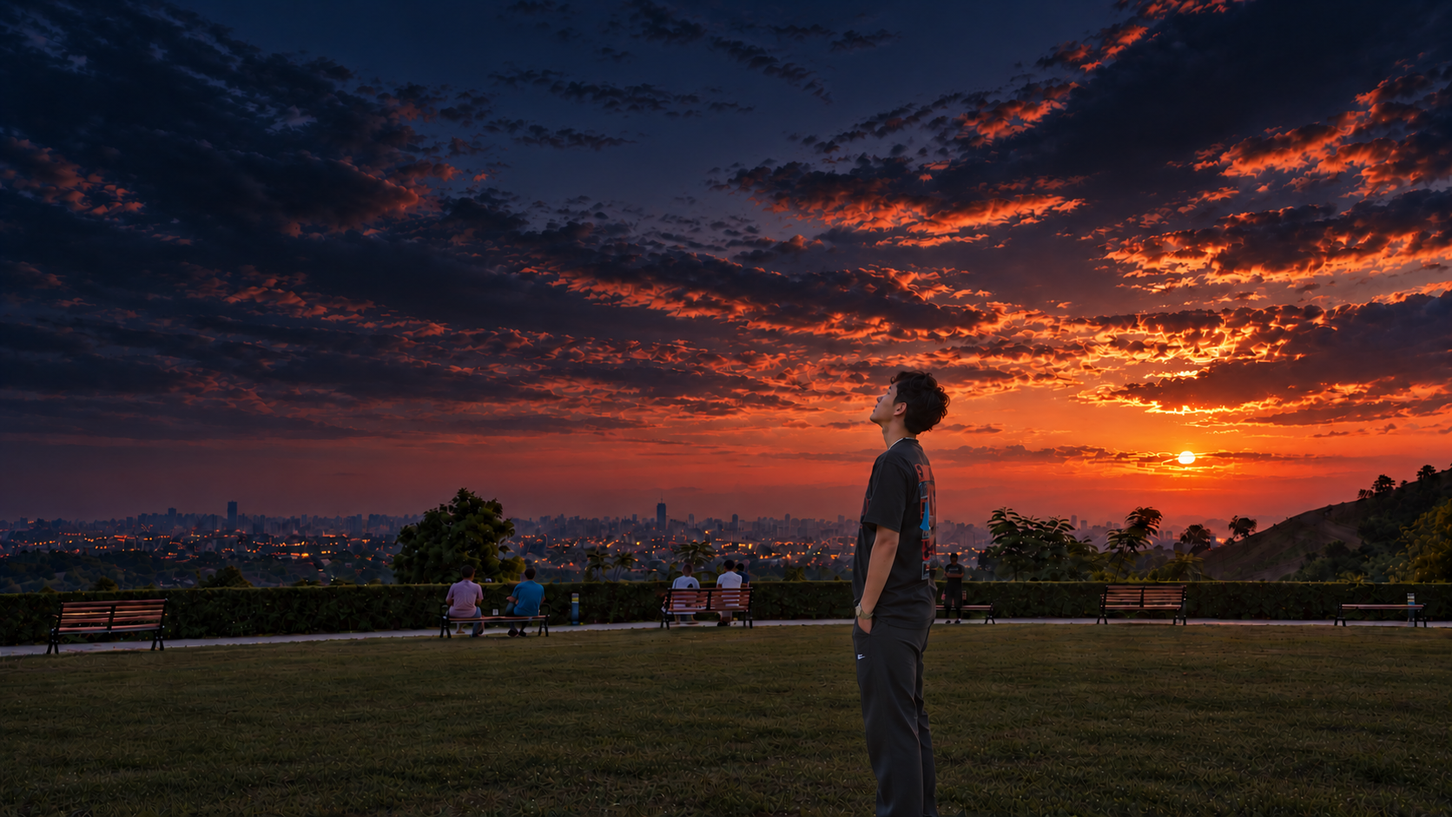
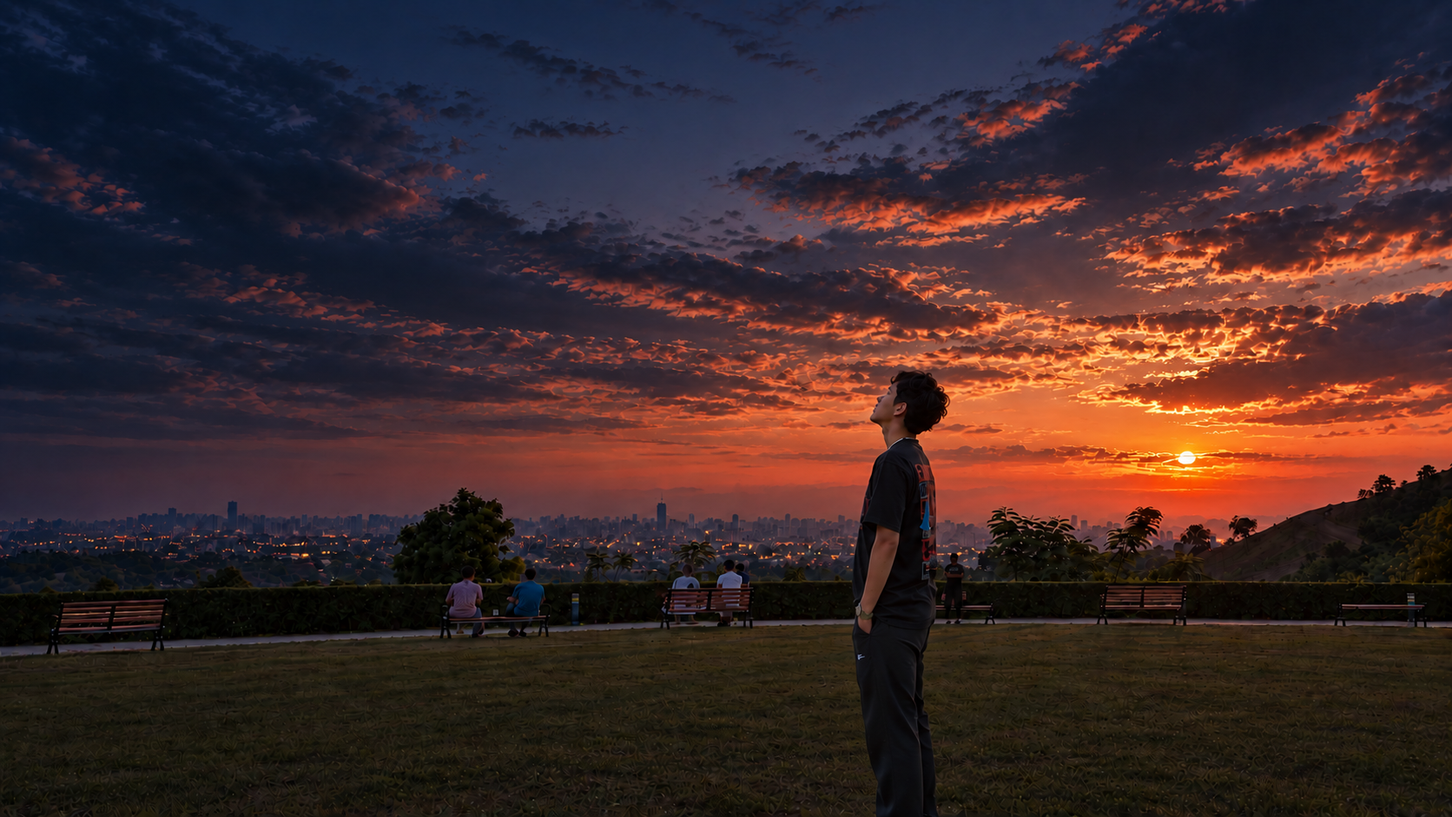
feat: integrate supplied sunrise and sunset hero photos

diff --git a/src/styles.css b/src/styles.css
@@ -56,33 +56,6 @@
   --blockquote-rule: #becbd7;
   --hero-foreground: #f5f2ed;
   --hero-secondary: #d5d7db;
-  --hero-shade:
-    radial-gradient(
-      ellipse 25% 27% at 52% 14%,
-      rgba(72, 104, 160, 0.45),
-      transparent
-    ),
-    radial-gradient(
-      ellipse 25% 35% at 23% 16%,
-      rgba(0, 15, 29, 0.7),
-      transparent
-    ),
-    linear-gradient(
-      90deg,
-      rgba(9, 17, 23, 0.77) 0%,
-      rgba(11, 18, 26, 0.56) 34%,
-      rgba(11, 18, 26, 0.12) 70%,
-      rgba(11, 18, 26, 0.03)
-    ),
-    linear-gradient(
-      0deg,
-      rgba(11, 17, 22, 0.45),
-      transparent 35%,
-      rgba(11, 17, 22, 0.12)
-    );
-  --hero-shade-mobile:
-    linear-gradient(90deg, #0b1624ca, #0b162462 70%, #0b16242a),
-    linear-gradient(0deg, #07101b88, transparent 40%);
   --contact-shade:
     linear-gradient(
       90deg,
@@ -150,21 +123,6 @@ html[data-theme="light"] {
   --blockquote-rule: #687685;
   --hero-foreground: #17202a;
   --hero-secondary: #303b47;
-  --hero-shade:
-    radial-gradient(
-      ellipse 30% 35% at 25% 16%,
-      rgba(117, 208, 255, 0.25),
-      transparent
-    ),
-    linear-gradient(
-      90deg,
-      rgba(245, 243, 239, 0.18) 0%,
-      rgba(245, 243, 239, 0.12) 35%,
-      rgba(245, 243, 239, 0.025) 72%,
-      rgba(245, 243, 239, 0)
-    ),
-    linear-gradient(0deg, rgba(111, 65, 10, 0.45), transparent 35%);
-  --hero-shade-mobile: var(--hero-shade);
   --contact-shade:
     linear-gradient(
       90deg,
@@ -529,7 +487,6 @@ p {
   background: #2a3540;
 }
 .hero-photo,
-.hero-person,
 .contact-photo {
   position: absolute;
   width: 100%;
@@ -544,29 +501,16 @@ p {
   object-position: 68% 45%;
   height: 112%;
   top: -6%;
+  z-index: 0;
   opacity: 0;
   transition: opacity 0.75s var(--ease);
 }
 .hero-photo.is-active {
   opacity: 1;
 }
-.hero-person {
-  z-index: -1;
-  width: 70vw;
-  height: auto;
-  top: calc(44.6% - 11.4vw);
-  bottom: auto;
-  left: calc(62.5% - 43.75vw);
-  object-position: center;
-  filter: brightness(0.9);
-}
-.hero-shade {
-  position: absolute;
-  inset: 0;
-  z-index: -2;
-  background: var(--hero-shade);
-}
 .hero-content {
+  position: relative;
+  z-index: 1;
   padding-top: 50px;
   padding-bottom: 45px;
 }
@@ -600,6 +544,7 @@ p {
 }
 .hero-bottom {
   position: absolute;
+  z-index: 1;
   bottom: 30px;
   left: 0;
   right: 0;
@@ -1842,13 +1787,6 @@ html[data-theme="light"] .hero-bottom .scroll-cue {
   .hero-photo {
     object-position: 60% 50%;
   }
-  .hero-person {
-    width: 117.5vw;
-    height: auto;
-    top: auto;
-    bottom: -9.4vw;
-    left: -6.4vw;
-  }
   .project-grid {
     gap: 14px;
   }
@@ -1959,7 +1897,7 @@ html[data-theme="light"] .hero-bottom .scroll-cue {
   }
   .hero-description {
     font-size: 22px;
-    max-width: 300px;
+    max-width: min(250px, calc(100% - 90px));
   }
   .hero .button {
     min-width: 0;
@@ -1971,19 +1909,9 @@ html[data-theme="light"] .hero-bottom .scroll-cue {
     gap: 12px;
   }
   .hero-photo {
-    object-position: 64% center;
+    object-position: 52% center;
     top: 0;
     height: 100%;
-  }
-  .hero-person {
-    width: 195vw;
-    height: auto;
-    top: auto;
-    bottom: -18vw;
-    left: -55.7vw;
-  }
-  .hero-shade {
-    background: var(--hero-shade-mobile);
   }
   .hero-bottom {
     bottom: 23px;
@@ -2485,17 +2413,6 @@ html[data-theme="light"] .hero-bottom .scroll-cue {
     font-size: 11px;
   }
 }
-@media (max-width: 530px) {
-  .hero-person {
-    /* Keep the face clear of the CTA row on narrow screens, then join the usual bottom crop. */
-    top: calc(100% - 91.8vw);
-    top: max(
-      calc(100% - 91.8vw),
-      calc(min(526px, calc(2044px - 323vw)) - 31.7vw)
-    );
-    bottom: auto;
-  }
-}
 @media (max-width: 360px) {
   :root {
     --gutter: 20px;
@@ -2573,7 +2490,6 @@ html[data-theme="light"] .hero-bottom .scroll-cue {
     transition: none !important;
   }
   .hero-photo,
-  .hero-person,
   .contact-photo {
     transform: none !important;
   }

diff --git a/src/App.tsx b/src/App.tsx
@@ -452,7 +452,7 @@ export default function App() {
         <section className="hero" id="home" aria-labelledby="hero-title">
           <img
             className={`hero-photo ${theme === "dark" ? "is-active" : ""}`}
-            src="/images/hero-sunset-background.webp"
+            src="/images/hero-full-sunset-v2.png"
             alt=""
             fetchPriority="high"
             aria-hidden="true"
@@ -461,21 +461,12 @@ export default function App() {
           />
           <img
             className={`hero-photo ${theme === "light" ? "is-active" : ""}`}
-            src="/images/hero-sunrise-background.webp"
+            src="/images/hero-full-sunrise-v2.png"
             alt=""
             aria-hidden="true"
             width="1672"
             height="941"
           />
-          <img
-            className="hero-person"
-            src="/images/hero-person-cutout.png"
-            alt=""
-            aria-hidden="true"
-            width="1672"
-            height="941"
-          />
-          <div className="hero-shade" />
           <div className="wrap hero-content">
             <div className="hero-reveal">
               <Eyebrow>Hello, I’m</Eyebrow>

diff --git a/src/usePortfolioMotion.ts b/src/usePortfolioMotion.ts
@@ -96,7 +96,7 @@ export function usePortfolioMotion(
       media.add(
         "(min-width: 768px) and (hover: hover) and (pointer: fine)",
         () => {
-          gsap.to(".hero-photo, .hero-person", {
+          gsap.to(".hero-photo", {
             yPercent: 12,
             ease: "none",
             scrollTrigger: {

diff --git a/docs/hero-reference-analysis.md b/docs/hero-reference-analysis.md
@@ -1,29 +1,34 @@
-# Hero reference analysis
+# October 2 hero photo fit against the video
 
-Source: the supplied screen recording, sampled near 1 s (sunrise) and 4 s (sunset), and its 1280 × 720 comparison frames. This records the visual target for the October 1 refinement; the portfolio copy remains based on the supplied résumé.
+## Visual target
 
-| Feature   | Video reference                                                                                                                  | Previous v6 render                                                   | Direction                                                                                                         |
-| --------- | -------------------------------------------------------------------------------------------------------------------------------- | -------------------------------------------------------------------- | ----------------------------------------------------------------------------------------------------------------- |
-| Hero edge | About y=500 in both modes                                                                                                        | y=504                                                                | Keep the existing hero height.                                                                                    |
-| Person    | Head about x=775–839, top y=225; body about 75–82 px wide; shoes cropped at hero edge                                            | Head near x=782–820, top y=228; body about 59 px wide; shoes visible | Scale the one transparent portrait around the head to about 70vw at 1280px, and let the hero clip its lower legs. |
-| Dark sky  | Near-black navy/indigo above a red/coral sunset; sampled top-left sky `#08121f`, upper-right sky `#161a2e`, coral band `#93453e` | Brown/gray clouds, turquoise patch and olive-gold horizon            | Replace the sunset plate with a deeper dusk edit, keeping the park scene and foreground portrait separate.        |
-| Light sky | Powder-blue upper sky with cream cloud edges and a pale peach-yellow horizon; sampled sky `#aec7e2` and `#b4d1ed`                | Orange-gold across most of the sky                                   | Replace the sunrise plate with a cooler dawn edit.                                                                |
+The screen recording remains the reference for framing and time-of-day contrast. Its page hero occupies approximately x=143–1137 and y=64–453 in a 1280 × 720 recording, or about 994 × 389. At a 1280 × 720 Playwright viewport, the v6 hero measures 1280 × 504, preserving nearly the same 2.54:1 frame. The supplied photographs are 1672 × 941 (1.78:1), so the wide hero necessarily crops vertically.
 
-The reference plates and previous generated plates have different cloud shapes, so a CSS color filter alone cannot make them pixel-identical. Preserve one portrait asset above the background shade, with the same crop and exposure in both themes; only the background plates crossfade.
+The recording shows a near-night navy/indigo sky with a coral sunset in dark mode and a cool, bright blue dawn with restrained peach light in the horizon in light mode. The two October 2 photos follow those distinct conditions while keeping the person near the same right-of-center position, looking upward, with feet below the hero boundary. The new pair is brighter and clearer than the video frame in places, which is inherent to the supplied source files and has not been graded with CSS.
 
-## Result
+## Fitted result
 
-The final hero keeps the same 504px desktop boundary. At a 1280px viewport the portrait image is 896px wide, and its alpha bounds place the head near y=225 and the body around x=754–834. The shoes fall below the clipped hero. The portrait source, geometry, and `brightness(0.9)` remain identical when switching themes. The sunrise and sunset plates are separate edits of the Antipolo scene; the light-mode ground receives a warm shade, while the top-left sky stays cool blue.
+| Check      | Video reference                                  | Playwright render, 1280 × 720                              | Result                                                                            |
+| ---------- | ------------------------------------------------ | ---------------------------------------------------------- | --------------------------------------------------------------------------------- |
+| Hero frame | About 994 × 389 inside the recording             | 1280 × 504                                                 | Matching wide composition; page layout unchanged                                  |
+| Person     | Head near x=775–839, y≈225 in the captured frame | Head around x=790–835, y≈228                               | Near the same position and scale; lower legs/feet stay clipped                    |
+| Dark sky   | Deep navy/indigo above the coral sunset          | Supplied dark photo; no shade, filter, or color overlay    | Deep dusk remains, though some clouds are brighter and more orange than the video |
+| Light sky  | Bright powder blue with pale warm horizon        | Supplied light photo; no shade, filter, or color overlay   | Cool dawn remains; cloud placement and local warmth differ from the video         |
+| Theme swap | Person appears fixed as the environment changes  | Two same-sized complete photos crossfade in one shared box | Same figure pose and placement; the source lighting differs                       |
 
-Representative 11×11 median samples from the reference and final Playwright screenshots, using the same normalized viewport location:
+At desktop, each `<img>` measures 1280 × 564.47 at y=-30.23 with `object-fit: cover` and `object-position: 68% 45%`. The visible source slice is approximately y=131–790, matching the video’s head height and clipping the feet below the 504px hero boundary. Both theme layers report the same box and have no CSS filter. The old cutout portrait and hero shade are absent.
 
-| Mode and location                | Reference | Final render |
-| -------------------------------- | --------- | ------------ |
-| Dark upper-left sky (300, 80)    | `#08121f` | `#081120`    |
-| Dark upper-middle sky (650, 80)  | `#2e3c5b` | `#263758`    |
-| Dark coral band (1000, 250)      | `#93453e` | `#983e2c`    |
-| Light upper-left sky (300, 80)   | `#aec7e2` | `#b1c7df`    |
-| Light upper-middle sky (650, 80) | `#b4d1ed` | `#a9caec`    |
-| Light grass (500, 460)           | `#927c40` | `#91834a`    |
+At 768 × 900, the photo uses `object-position: 60% 50%` and the figure stays clear of the wrapped title and body copy. At mobile sizes, it uses `object-position: 52% 50%`; the paragraph narrows to leave the embedded figure's face clear. Playwright checks at 768 × 900, 390 × 844, and 320 × 780 confirmed that the photo is loaded and `document.documentElement.scrollWidth` equals the viewport width. The scene remains intentionally cropped more tightly on phones than in the desktop video reference.
 
-The source screenshot contains UI and a different cloud arrangement, so the resulting clean photographic plates still differ in cloud edges, sun glow, and some distant park visitors. The important mode contrast, subject identity/crop, and light/dark placement now follow the video without baking its UI into the site.
+## Design-engineering pipeline decisions
+
+1. **Foundations:** Preserve the current portfolio architecture, copy, page flow, theme control, and accessible/reduced-motion behavior.
+2. **Aesthetic:** Use the supplied video to evaluate sunrise/sunset contrast and the two new photos as the final image authority.
+3. **Identity:** Keep both user files byte-for-byte. They are complete photos containing the same figure and pose.
+4. **Motion:** Crossfade the two full images and move them together for desktop parallax. Reduced-motion preferences continue to suppress movement and transitions.
+5. **Implementation:** Replace the two background plates plus separate portrait with two full-photo layers; remove the hero color overlay and retain one responsive crop per breakpoint.
+6. **Audit:** Compare dark and light browser renders with the reference, check desktop/mobile composition and overflow, and verify both sources load without filters.
+
+The people are part of the supplied photos, so their lighting is baked in; their pixels are not identical between themes. Making the person pixel-identical would require altering the photos or reintroducing a separate portrait layer, neither of which is part of this integration. Cloud shapes, exact sun glow, and small park details also differ from the recording because the user-supplied photos are now locked as the artwork.
+
+Source frames: `assets/hero-pair/reference/video-light.png` and `assets/hero-pair/reference/video-dark.png`. Exact image hashes and current browser measurements are in `assets/hero-pair/measurements.json`.

diff --git a/assets/hero-pair/README.md b/assets/hero-pair/README.md
@@ -1,34 +1,33 @@
-# Full sunrise/sunset photo pair
+# Hero photo pair provenance and fit
 
-Created October 1, 2026, with built-in image_gen. This is an image-only trial in portfolio v6; the site still uses its existing backgrounds and shared portrait.
+## Current application pair
 
-## Selected files
+The October 2, 2026 photos supplied by the user are the selected hero artwork. Both are complete, opaque 1672 × 941 PNGs with the person embedded in the scene. The light source was already byte-identical to the file in `public/images`; the dark source replaced the October 1 generated candidate at the same filename. Neither source photo was edited, regenerated, filtered, or resized.
 
-- `../../public/images/hero-full-sunrise-v2.png`
-- `../../public/images/hero-full-sunset-v2.png`
+| Theme           | Supplied source                                                          | Application asset                        | SHA-256                                                            |
+| --------------- | ------------------------------------------------------------------------ | ---------------------------------------- | ------------------------------------------------------------------ |
[2 lines of base64/hex data omitted]
 
-Both opaque PNGs are native **1672 × 941** pixels and contain the foreground person. They were not upscaled. The tool returned this size despite the initial 3840 × 2160 prompt. The dark photograph was edited from the selected complete light scene.
+The figure shares the same pose and position across the pair. Its lighting is part of each photo, so the figure's brightness and skin tones differ between themes. Keeping the supplied photos untouched preserves their detail and framing.
 
-## Reference and crop
+## Reference and responsive fit
 
-The supplied original 4032 × 3024 photograph was the identity/detail reference. The video is the background target, sampled at 1 s and 4 s. Saved frames are in `reference/`; their hero crop is approximately x=143, y=64, width=994, height=389. The supplied screenshots show the corresponding 1672 × 654 hero.
+The video reference is `D:/Games/VALO CLIPS/Outplayed/Screen recorder/Screen recorder_10-01-2026_12-26-13-106/Screen recorder_10-01-2026_12-26-45-572.mp4`. The comparison frames remain in `reference/`; the captured hero is about 994 × 389 within the 1280 × 720 video frame. At a 1280 × 720 browser viewport, the portfolio hero is 1280 × 504, an almost identical aspect ratio. Both source photos fill the same `object-fit: cover` box at the same position. The crop displays approximately source rows 131–790, keeping the head near the video's y≈225 placement and clipping the feet below the hero edge.
 
-Playwright confirmed a 1280 × 504 desktop hero with a 1280 × 564.48 background element at y=-30.24, cover fit and 68% 45% object position. The displayed source slice is approximately y=131–790. The person's head begins near native y=428, displaying at y≈227; center is near 62–63% of width. Shoes stay beyond the visible crop.
+At tablet width, the photos use a 60% horizontal crop. On phones, they use 52% to preserve the face at the right of the copy; the paragraph narrows with the viewport to keep its last line clear of the embedded figure. Playwright at 768px, 390px, and 320px confirmed that the photos load and the page has no horizontal overflow.
 
-## Verification and limits
+Only the two complete photographs are in the hero. The theme transition remains a 0.75-second opacity crossfade; desktop parallax moves both photos together. No overlay, CSS filter, independent portrait, or extra image layer changes the supplied artwork. Reduced-motion handling remains active.
 
-Both PNGs decoded and loaded in Playwright with equal dimensions. `reference/pair-comparison.png` compares the actual desktop crop with the video. `reference/portrait-alignment.png` shows the person at 200% and in a 50% blend: pose and silhouette align without a conspicuous doubled outline at desktop size.
+## Six-stage design-engineering record
 
-Light follows pale blue/cream morning colors; dark follows navy/indigo and coral/orange sunset with city lights. No green upper-sky cast was observed.
+1. **Foundations:** Retain the existing React/Vite portfolio structure, hero content, section order, and responsive/accessibility requirements.
+2. **Aesthetic:** Match the video’s cool bright dawn and deep navy/coral dusk using the supplied pair as the visual authority.
+3. **Identity:** Lock the October 2 photos as final artwork; do not generate or alter either image.
+4. **Motion:** Keep the existing crossfade and parallax, with both photo layers sharing one motion target and respecting reduced motion.
+5. **Implementation:** Use two decorative image elements with one shared crop; remove the separate portrait and photo shade.
+6. **Audit:** Compare both themes in Playwright at desktop and phone sizes, check image geometry, controls, reduced-motion behavior, runtime output, and overflow.
 
-**This is a matched concept pair, not an exact reference copy or a pixel-identical person.** Dark skin remains slightly dimmer. Selected native interior-patch mean RGB differences are 3.8 for hair, 17.2 for face, 3.3 for shirt, 11.9 for arm and 2.6 for trousers on a 0–255 scale. These patches measure exposure/detail consistency, not identity. Hair, face, necklace and clothing details are generated rather than untouched pixels from the original.
+## Earlier October 1 image-generation trial
 
-Cloud shapes, sun placement, benches and hedge height differ from the reference. Grass microtexture remains visibly synthetic at full resolution. `measurements.json` records comparison data; samples landing on different scene objects cannot establish a literal color match.
-
-The final exposure-only attempt over-brightened skin and returned 1671 × 941. It was rejected; the earlier equal-sized pair with better alignment was retained.
-
-## Later integration
-
-Application source, existing artwork and resume PDF were untouched. Later integration requires replacing the three-image hero with two photographs. Mobile currently positions the portrait independently, so the future image crop rules require responsive adjustment and testing. This generation trial does not verify that future implementation.
-
-`prompts.json` records all prompts and selected paths. Source candidates remain in the tool's generated-images folder. Only the selected pair was added as new public hero assets. Reverting this asset-only commit preserves the previous hero implementation.
+This folder began as an image-generation experiment. Its prompts and comparison assets document that earlier work only; they do not describe the current application files. `prompts.json` preserves the old prompts and marks their selected files as historical. In `measurements.json`, `currentApplicationPair` contains the October 2 source hashes and current browser measurements; properties prefixed `october1` retain the old color and person-patch results. The October 1 portrait-alignment image and color samples must not be read as measurements of the new pair.

diff --git a/docs/verification.md b/docs/verification.md
@@ -1,6 +1,6 @@
 # Portfolio v6 · verification record
 
-Environment: local Vite development server, Playwright 1.63 Chromium, October 1, 2026.
+Previous full-site baseline: local Vite development server, Playwright 1.63 Chromium, October 1, 2026. Hero integration rechecked on October 2, 2026; unrelated full-site checks below were not rerun.
 
 ## Theme and résumé verification
 
@@ -12,9 +12,9 @@ Environment: local Vite development server, Playwright 1.63 Chromium, October 1,
 ## Desktop
 
 - The home, projects, about, process, learning journey, and contact sections all render with their supplied title and hierarchy.
-- Separate sunrise and sunset hero plates and one transparent foreground portrait load as local assets. Switching themes crossfades the background plates while keeping the portrait's source, position, size, and filter unchanged. The generated dusk contact photo is lazy loaded.
-- At 1280×720, Playwright measured the hero at 504px high. The enlarged foreground portrait starts near y=225 and is clipped at the hero edge, so its shoes are hidden in both themes. The projects section begins directly below the hero.
-- The desktop hero follows the reference's subject position and crop, blue sunrise versus navy/coral sunset, dark left-hand title treatment, editorial serif type, quiet header, and paired actions. The cloud edges and distant park visitors still differ from the video.
+- Two complete supplied sunrise/sunset photos load as the only hero image layers. Switching themes crossfades those photos; the figure is included in both. The generated dusk contact photo is lazy loaded.
+- At 1280×720, Playwright measured the hero at 504px high and each photo at 1280×564.47, y=-30.23. Their shared crop places the head near y=228 and clips the feet below the hero. The projects section begins directly below the hero.
+- The desktop hero follows the reference's subject position and crop, bright dawn versus navy/coral sunset, dark left-hand title treatment, editorial serif type, quiet header, and paired actions. The supplied photos have no shade or filter.
 - The three project workflow illustrations and case study cards fit the viewport without horizontal overflow.
 - The first and subsequent project dialogs open and show their matching title and details; dialog state locks body scroll. Escape closes the native dialog and restores focus to the CASH-G launch button.
 - Project hashes and the button links update the intended section. The project overview case study works without an external hosted demo.
@@ -26,8 +26,8 @@ Environment: local Vite development server, Playwright 1.63 Chromium, October 1,
 - Reduced motion toggles from the footer and changes `document.documentElement.dataset.motion` while preserving readable content and navigation. Playwright emulation of the system reduced-motion preference confirmed that hero photo transitions are disabled.
 - All three illustrations and project details load. Escape closes the native case-study dialog, unlocks body scrolling and restores focus to the originating project card. The contact anchor copy fits at 390px, and the generated dusk image loads.
 - The email copy control changes to its success status on click. The current page generated no browser console errors after a fresh reload.
-- Playwright verified both theme images load, the background crossfade overlaps during the transition, the portrait bounds do not move between themes, and the selected theme persists after reload.
-- The TypeScript/Vite production build and `git diff --check` pass. Changed files pass Prettier. The repository-wide format check still reports warnings in untouched `src/usePortfolioMotion.ts`, `DESIGN.md`, and `index.html`.
+- Playwright verified both theme images load, their CSS boxes stay equal across themes, and the selected theme persists after reload. The previous separate-portrait comparison below records the October 1 implementation only.
+- The TypeScript/Vite production build and `git diff --check` pass. Changed files pass Prettier. The repository-wide format check still flags the unchanged `index.html`.
 
 ## Résumé update
 
@@ -37,9 +37,19 @@ Environment: local Vite development server, Playwright 1.63 Chromium, October 1,
 
 The existing social profiles, contact details, project descriptions, and dated project checks are taken from `src/data/portfolio.json`; the checks have not been repeated as part of the site build. The final contact photograph also loads as a local asset. No remote services, analytics, or deployment were added.
 
-## October 1 video-reference refinement
+## October 1 video-reference refinement (previous implementation)
 
 - Compared the supplied video near its light and dark frames with the live hero, including person bounds, hero edge, sky/grass samples, and sun position. The measurements and remaining visual differences are in `docs/hero-reference-analysis.md`.
 - Refined the separate sunrise and sunset plates from the supplied scene. The dark plate has deep navy clouds and a low coral sunset; the light plate has cool blue sky, pale warm horizon, and less green-looking grass. The live portrait remains a single unchanged image node above the shade in both themes.
 - Playwright checked the crop at 1280px, 768px, 390px, and 320px, plus the 400/401px and 530/531px responsive handoffs. Shoes stay clipped and there is no horizontal overflow. On narrow phones, the head remains below the action buttons.
 - Playwright confirmed both images loaded, theme selection persisted after reload, the animated crossfade completed when motion was enabled, the reduced-motion state showed no transition, and the page reported no console errors.
+
+The October 1 composition used separate background plates and a portrait cutout. It was superseded by the user's complete photos on October 2; these checks do not describe the current image layers.
+
+## October 2 supplied-photo integration
+
+- Both October 2 PNGs are used byte-for-byte at 1672×941. Playwright at 1280×720 confirmed two loaded photo layers, one active per theme, equal 1280×564.47 boxes at y=-30.23, `object-fit: cover`, and `filter: none`. The hero has no portrait node or shade overlay.
+- Playwright at 768×900, 390×844, and 320×780 confirmed the responsive crops, successful photo load, and no horizontal overflow. The figure remains near the video reference position at desktop, with feet below the hero edge.
+- Theme switching keeps the hero and both image boxes fixed while the photos crossfade. The selected theme persists in local storage. Figure lighting differs because it is part of each source image.
+- `npm run build` passes TypeScript and production bundling. Prettier passes on every changed file, and `git diff --check` passes. The repository-wide Prettier check still flags only the untouched `index.html`.
+- Playwright observed the crossfade at 160ms with photo opacities 0.237/0.763 and equal image boxes; reduced-motion emulation reported no transition. Theme selection persisted through reload, both PNGs decoded, and the browser reported zero errors and warnings.

diff --git a/DESIGN.md b/DESIGN.md
@@ -21,7 +21,7 @@ Maximum content width 1440px with fluid 5.4vw gutters. Display sizes use clamp; 
 
 ## Stage 3: visual identity and assets
 
-Reuse the four supplied comps as the already-approved individual section designs. Generate clean photographic assets from the hero and contact references through the built-in imagegen tool. Keep all final assets in public/images. A monogram, sunset photography, ivory serif headings and blue line icons form the identity. Do not invent a new brand moodboard.
+Reuse the four supplied comps as the already-approved individual section designs. For the hero, use the two complete October 2 photos supplied by the user as-is; do not generate or alter them. Keep all final assets in public/images. A monogram, sunset photography, ivory serif headings and blue line icons form the identity. Do not invent a new brand moodboard.
 
 Content provenance: reference project names and stacks are design concepts until verified. Do not present sample employment dates as actual history. Keep unconfirmed links and resume state explicit. No fabricated achievements, live deployments or client work. The supplied résumé is the source for the four-branch ARCTIC context and university coursework. The portfolio serves the supplied résumé PDF byte-for-byte.
 
